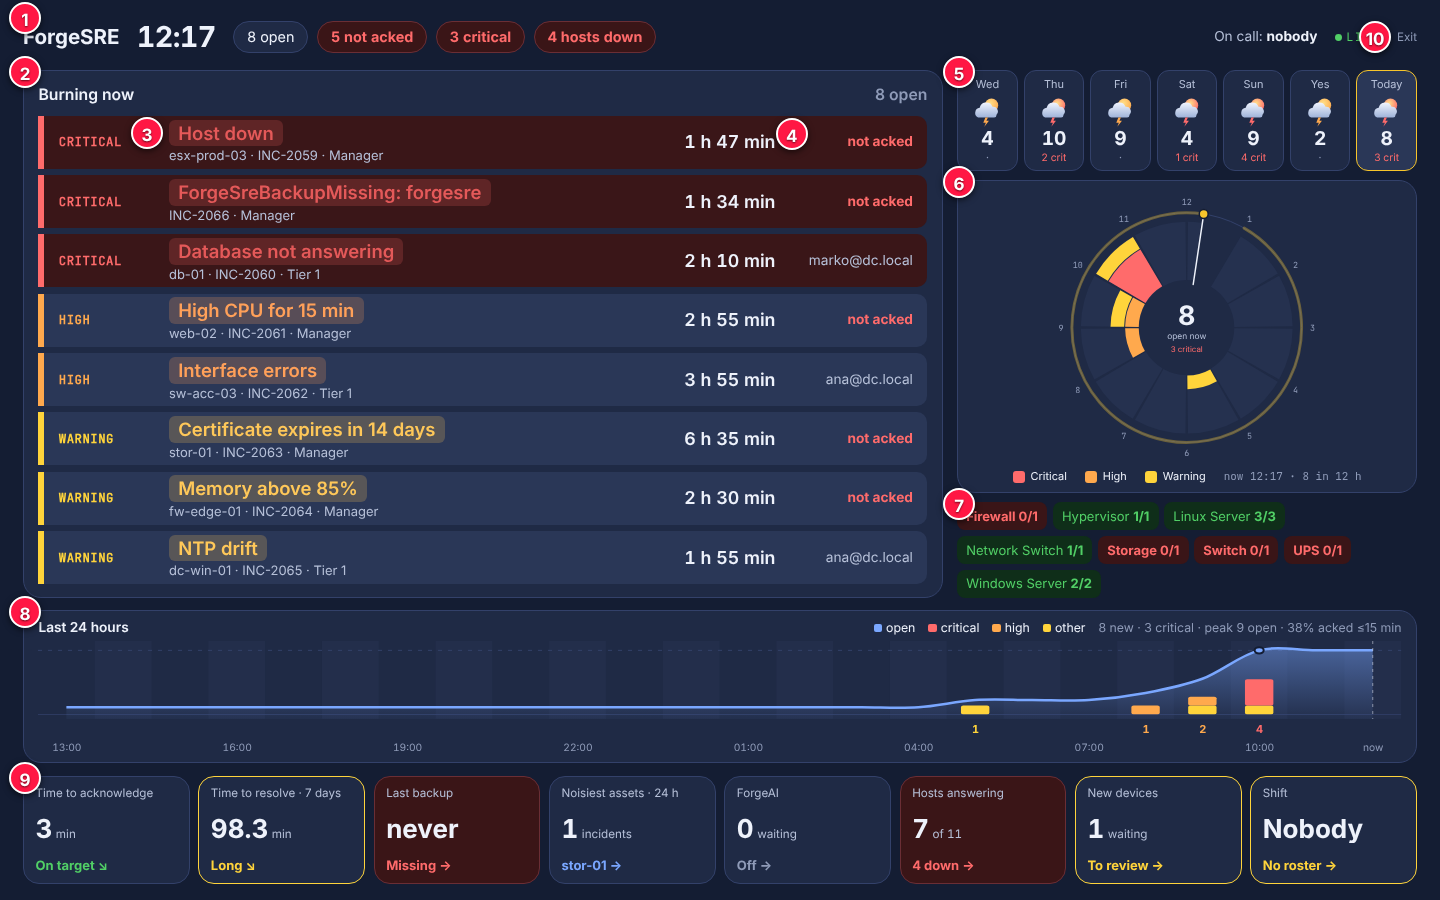
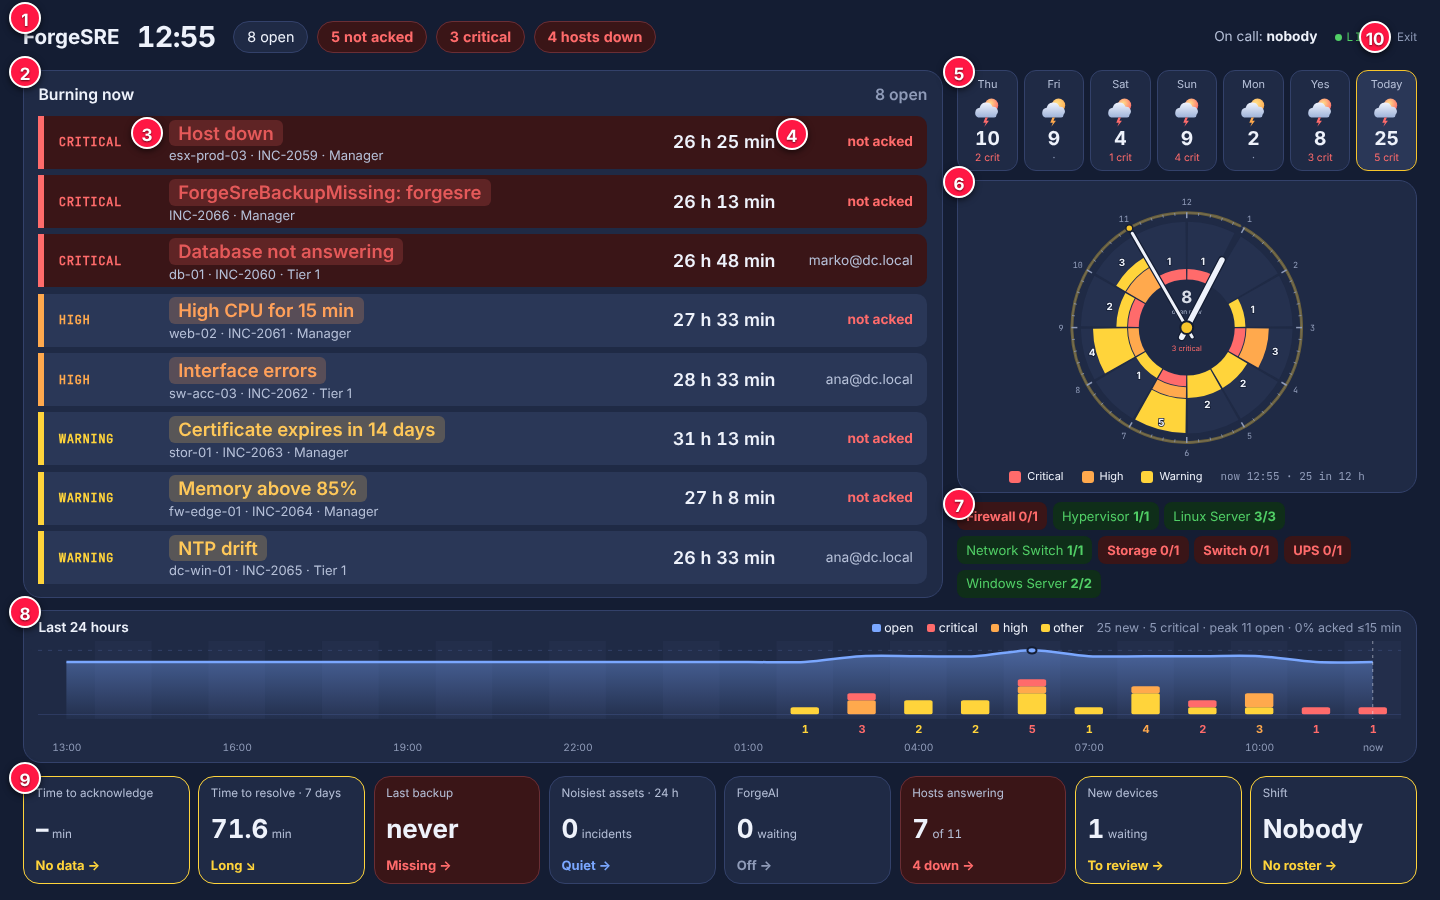
TV clock: real hour and minute hands, minute ticks, incident count written in each hour (#264)
Claude-Session: https://claude.ai/code/session_01K9hus2JZBeXGjiRoAgeJJH

diff --git a/web/src/components/IncidentClock.tsx b/web/src/components/IncidentClock.tsx
@@ -1,4 +1,4 @@
-import { useState } from "react";
+import { useEffect, useRef, useState } from "react";
 import type { DayHour, IncidentClockData, TvDayDetail } from "../lib/api";
 
 const SIZE = 560;
@@ -35,13 +35,67 @@ function arc(a0: number, a1: number, r: number) {
 
 const hh = (n: number) => String(n).padStart(2, "0");
 
+/** Hour and minute hands from the centre, with a dark edge so they read over the coloured hours. */
+function Hands({ hour, minute }: { hour: number; minute: number }) {
+  const hA = dialAngle(hour, minute);
+  const mA = (minute / 60) * TAU;
+  const hand = (a: number, len: number, w: number, color: string) => {
+    const [x1, y1] = pt(a + Math.PI, 22);
+    const [x2, y2] = pt(a, len);
+    return (
+      <g>
+        <line x1={x1} y1={y1} x2={x2} y2={y2} stroke="var(--bg)" strokeWidth={w + 5} strokeLinecap="round" />
+        <line x1={x1} y1={y1} x2={x2} y2={y2} stroke={color} strokeWidth={w} strokeLinecap="round" />
+      </g>
+    );
+  };
+  return (
+    <g aria-hidden="true" className="clock-hands">
+      {hand(hA, R_IN + 58, 11, "var(--text)")}
+      {hand(mA, R_OUT + 6, 6, "var(--text)")}
+      <circle cx={C} cy={C} r={13} fill="var(--accent)" stroke="var(--bg)" strokeWidth={4} />
+      <circle cx={pt(mA, RIM)[0]} cy={pt(mA, RIM)[1]} r={7} fill="var(--accent)" stroke="var(--bg)" strokeWidth={3} />
+    </g>
+  );
+}
+
+/** Minute ticks on the rim (every 5 longer), like a wall clock. */
+function Ticks() {
+  return (
+    <g aria-hidden="true">
+      {Array.from({ length: 60 }, (_, m) => {
+        const a = (m / 60) * TAU;
+        const [x1, y1] = pt(a, RIM - (m % 5 ? 5 : 11));
+        const [x2, y2] = pt(a, RIM + 1);
+        return <line key={m} x1={x1} y1={y1} x2={x2} y2={y2} stroke="var(--faint)" strokeWidth={m % 5 ? 1.5 : 3} />;
+      })}
+    </g>
+  );
+}
+
+/** The appliance time from the last refresh, moved on by the browser clock so the hands keep going. */
+function useLiveTime(hour: number, minute: number): [number, number] {
+  const since = useRef(Date.now());
+  const [, tick] = useState(0);
+  useEffect(() => {
+    since.current = Date.now();
+  }, [hour, minute]);
+  useEffect(() => {
+    const t = window.setInterval(() => tick((n) => n + 1), 10_000);
+    return () => window.clearInterval(t);
+  }, []);
+  const total = hour * 60 + minute + Math.floor((Date.now() - since.current) / 60_000);
+  return [Math.floor(total / 60) % 24, total % 60];
+}
+
 /**
- * The last 12 hours on a wall-clock dial: each hour sits where it is on a real clock, stacked by
- * severity (critical inside). The hand and the rim marker show the time now; the empty slice right
- * after the hand separates the newest hour from the oldest.
+ * The last 12 hours on a wall clock: each hour sits where it is on a real dial, stacked by severity
+ * (critical inside) with the number of incidents written in it. Hour and minute hands show the time
+ * now; the empty slice right after the hour hand separates the newest hour from the oldest.
  */
 export function IncidentClock({ clock, open, critical }: { clock: IncidentClockData; open: number; critical: number }) {
   const [hover, setHover] = useState<number | null>(null);
+  const [nowH, nowM] = useLiveTime(clock.hour, clock.minute);
   const hand = dialAngle(clock.hour, clock.minute);
   const peak = Math.max(4, ...clock.hours.map((h) => h.critical + h.high + h.warning));
   const unit = (R_OUT - R_IN) / peak;
@@ -60,6 +114,8 @@ export function IncidentClock({ clock, open, critical }: { clock: IncidentClockD
           const a0 = dialAngle(h.hour) + 0.012;
           const a1 = i === last ? Math.max(a0 + 0.02, hand - 0.012) : dialAngle(h.hour) + step - 0.012;
           let r = R_IN;
+          const count = h.critical + h.high + h.warning;
+          const [lx, ly] = pt((a0 + a1) / 2, Math.min(R_OUT - 16, R_IN + count * unit + 18));
           return (
             <g key={h.start} onMouseEnter={() => setHover(i)} onMouseLeave={() => setHover(null)}>
               <path d={wedge(a0, a1, R_IN, R_OUT)} fill="var(--s2)" opacity={hover === i ? 1 : 0.55} />
@@ -70,6 +126,7 @@ export function IncidentClock({ clock, open, critical }: { clock: IncidentClockD
                 r += n * unit;
                 return <path key={layer.key} d={d} fill={layer.color} />;
               })}
+              {count ? <text x={lx} y={ly + 7} textAnchor="middle" fontSize={20} fontWeight={700} fill="var(--text)" stroke="var(--bg)" strokeWidth={3} paintOrder="stroke">{count}</text> : null}
             </g>
           );
         })}
@@ -77,12 +134,12 @@ export function IncidentClock({ clock, open, critical }: { clock: IncidentClockD
           const [x, y] = pt(dialAngle(n), RIM + 22);
           return <text key={n} x={x} y={y + 6} textAnchor="middle" fontSize={17} fill="var(--faint)" fontFamily="var(--mono)">{n === 0 ? 12 : n}</text>;
         })}
-        {/* Hand and rim marker for the time now. */}
-        <line x1={pt(hand, R_IN - 8)[0]} y1={pt(hand, R_IN - 8)[1]} x2={pt(hand, RIM)[0]} y2={pt(hand, RIM)[1]} stroke="var(--text)" strokeWidth={3} strokeLinecap="round" />
-        <circle cx={pt(hand, RIM)[0]} cy={pt(hand, RIM)[1]} r={9} fill="var(--accent)" stroke="var(--bg)" strokeWidth={3} />
-        <text x={C} y={C - 6} textAnchor="middle" fontSize={54} fontWeight={700} fill="var(--text)">{open}</text>
-        <text x={C} y={C + 24} textAnchor="middle" fontSize={17} fill="var(--muted)">open now</text>
-        <text x={C} y={C + 50} textAnchor="middle" fontSize={16} fill={critical ? "var(--crit)" : "var(--faint)"}>{critical} critical</text>
+        <Ticks />
+        {/* open now and critical sit above and below the hub, under the hands */}
+        <text x={C} y={C - 50} textAnchor="middle" fontSize={34} fontWeight={700} fill="var(--text)" opacity={0.9}>{open}</text>
+        <text x={C} y={C - 28} textAnchor="middle" fontSize={13} fill="var(--muted)">open now</text>
+        <text x={C} y={C + 48} textAnchor="middle" fontSize={15} fill={critical ? "var(--crit)" : "var(--faint)"}>{critical} critical</text>
+        <Hands hour={nowH} minute={nowM} />
       </svg>
       <div className="row" style={{ gap: 18, justifyContent: "center" }}>
         {LAYERS.map((layer) => (
@@ -91,7 +148,7 @@ export function IncidentClock({ clock, open, critical }: { clock: IncidentClockD
             {layer.label}
           </span>
         ))}
-        <span className="small faint mono">now {hh(clock.hour)}:{hh(clock.minute)} · {clock.total} in 12 h</span>
+        <span className="small faint mono">now {hh(nowH)}:{hh(nowM)} · {clock.total} in 12 h</span>
       </div>
       <div className="small" style={{ minHeight: 20 }} aria-live="polite">
         {shown ? `${hh(shown.hour)}:00–${hh((shown.hour + 1) % 24)}:00 · ${shown.critical} critical · ${shown.high} high · ${shown.warning} warning` : ""}

diff --git a/scripts/visual_guide.py b/scripts/visual_guide.py
@@ -87,8 +87,8 @@ PAGES: list[Page] = [
              Step(".tvw-row >> nth=0 >> .tvw-row-ack", "Who acknowledged it, or red not acked.", "Ko ga je potvrdio, ili crveno not acked."),
              Step(".tvw-week", "The last 7 days like a weather forecast. Click a day to see its clock: ‹ AM left, PM › right.",
                   "Poslednjih 7 dana kao vremenska prognoza. Klik na dan prikazuje njegov sat: ‹ AM levo, PM › desno."),
-             Step(".tvw-ring", "The last 12 hours on a clock: each hour stacked by severity; the hand is now.",
-                  "Poslednjih 12 sati na satu: svaki sat složen po ozbiljnosti; kazaljka je sada."),
+             Step(".tvw-ring", "The last 12 hours on a wall clock with hour and minute hands: each hour stacked by severity, its count written inside.",
+                  "Poslednjih 12 sati na satu sa velikom i malom kazaljkom: svaki sat složen po ozbiljnosti, sa brojem incidenata unutra."),
              Step(".tvw-hosts", "Host groups: green all up, red with up/total.", "Grupe hostova: zeleno svi rade, crveno sa radi/ukupno."),
              Step(".tvw-strip", "Last 24 hours: the line is open incidents, the bars are new ones by severity with the count under them.",
                   "Poslednja 24 sata: linija su otvoreni incidenti, stubići su novi po ozbiljnosti sa brojem ispod."),

diff --git a/docs/ui.md b/docs/ui.md
@@ -213,7 +213,7 @@ a 65" 4K TV, refreshed every 30 seconds.
   that appears while the page is open glows for a minute. Nothing open: a calm **All quiet** with
   the time since the last incident was resolved.
 - Right: the last 7 days as small "weather" cells (sun = quiet, cloud = warning, storm = high or
-  critical; big number = incidents, small = criticals), the 12-hour incident clock, and the host
+  critical; big number = incidents, small = criticals), the 12-hour incident clock (a wall clock with hour and minute hands; each hour stacked by severity with its count inside), and the host
   groups (green when all answer, red with up/total when not).
 - **Day clock**: click a day cell to see that day on the clock, half a day at a time: *‹ AM*
   (00–12) on the left, *PM ›* (12–24) on the right. Each hour is stacked by severity with its count

diff --git a/docs/vizuelni-vodic-sr.md b/docs/vizuelni-vodic-sr.md
@@ -50,7 +50,7 @@ Jedan ekran za TV na zidu. Prijavi ga Viewer nalogom. Osvežava se na 30 s.
 3. Ime incidenta u boji ozbiljnosti.
 4. Ko ga je potvrdio, ili crveno not acked.
 5. Poslednjih 7 dana kao vremenska prognoza. Klik na dan prikazuje njegov sat: ‹ AM levo, PM › desno.
-6. Poslednjih 12 sati na satu: svaki sat složen po ozbiljnosti; kazaljka je sada.
+6. Poslednjih 12 sati na satu sa velikom i malom kazaljkom: svaki sat složen po ozbiljnosti, sa brojem incidenata unutra.
 7. Grupe hostova: zeleno svi rade, crveno sa radi/ukupno.
 8. Poslednja 24 sata: linija su otvoreni incidenti, stubići su novi po ozbiljnosti sa brojem ispod.
 9. Male pločice: vreme potvrde i rešenja, backup, najbučniji uređaj, ForgeAI, hostovi, novi uređaji; Shift skroz desno.

diff --git a/docs/visual-guide.md b/docs/visual-guide.md
@@ -50,7 +50,7 @@ One screen for the TV on the wall. Sign it in with a Viewer account. Refreshes e
 3. Incident name in its severity colour.
 4. Who acknowledged it, or red not acked.
 5. The last 7 days like a weather forecast. Click a day to see its clock: ‹ AM left, PM › right.
-6. The last 12 hours on a clock: each hour stacked by severity; the hand is now.
+6. The last 12 hours on a wall clock with hour and minute hands: each hour stacked by severity, its count written inside.
 7. Host groups: green all up, red with up/total.
 8. Last 24 hours: the line is open incidents, the bars are new ones by severity with the count under them.
 9. Small tiles: acknowledge and resolve times, backup, noisiest asset, ForgeAI, hosts, new devices; Shift at the far right.
